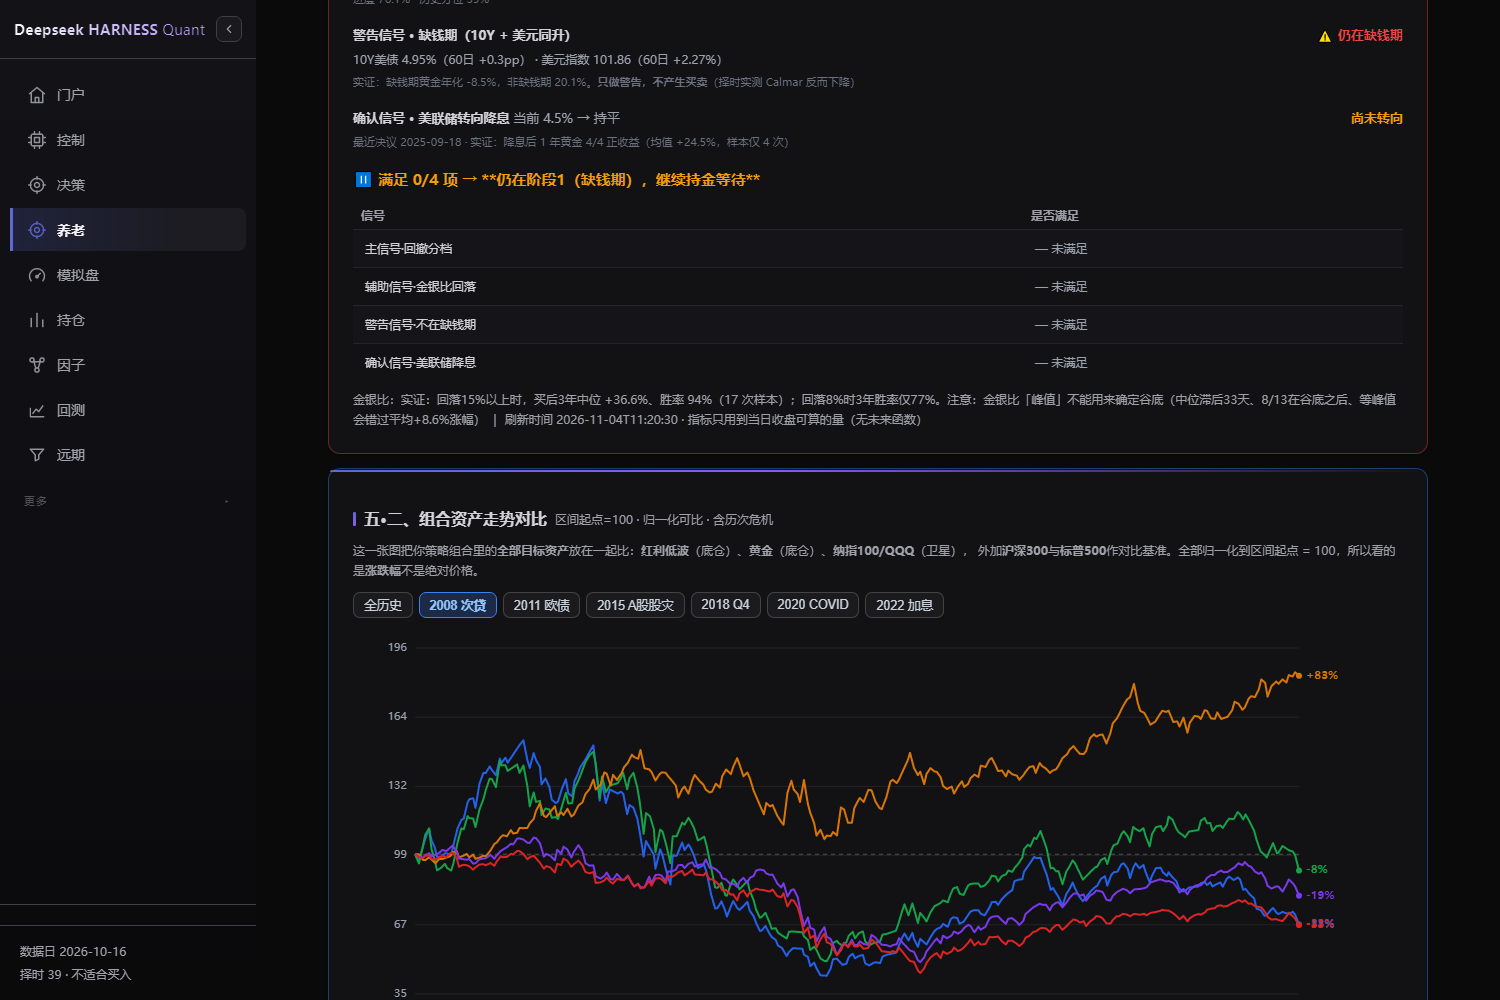
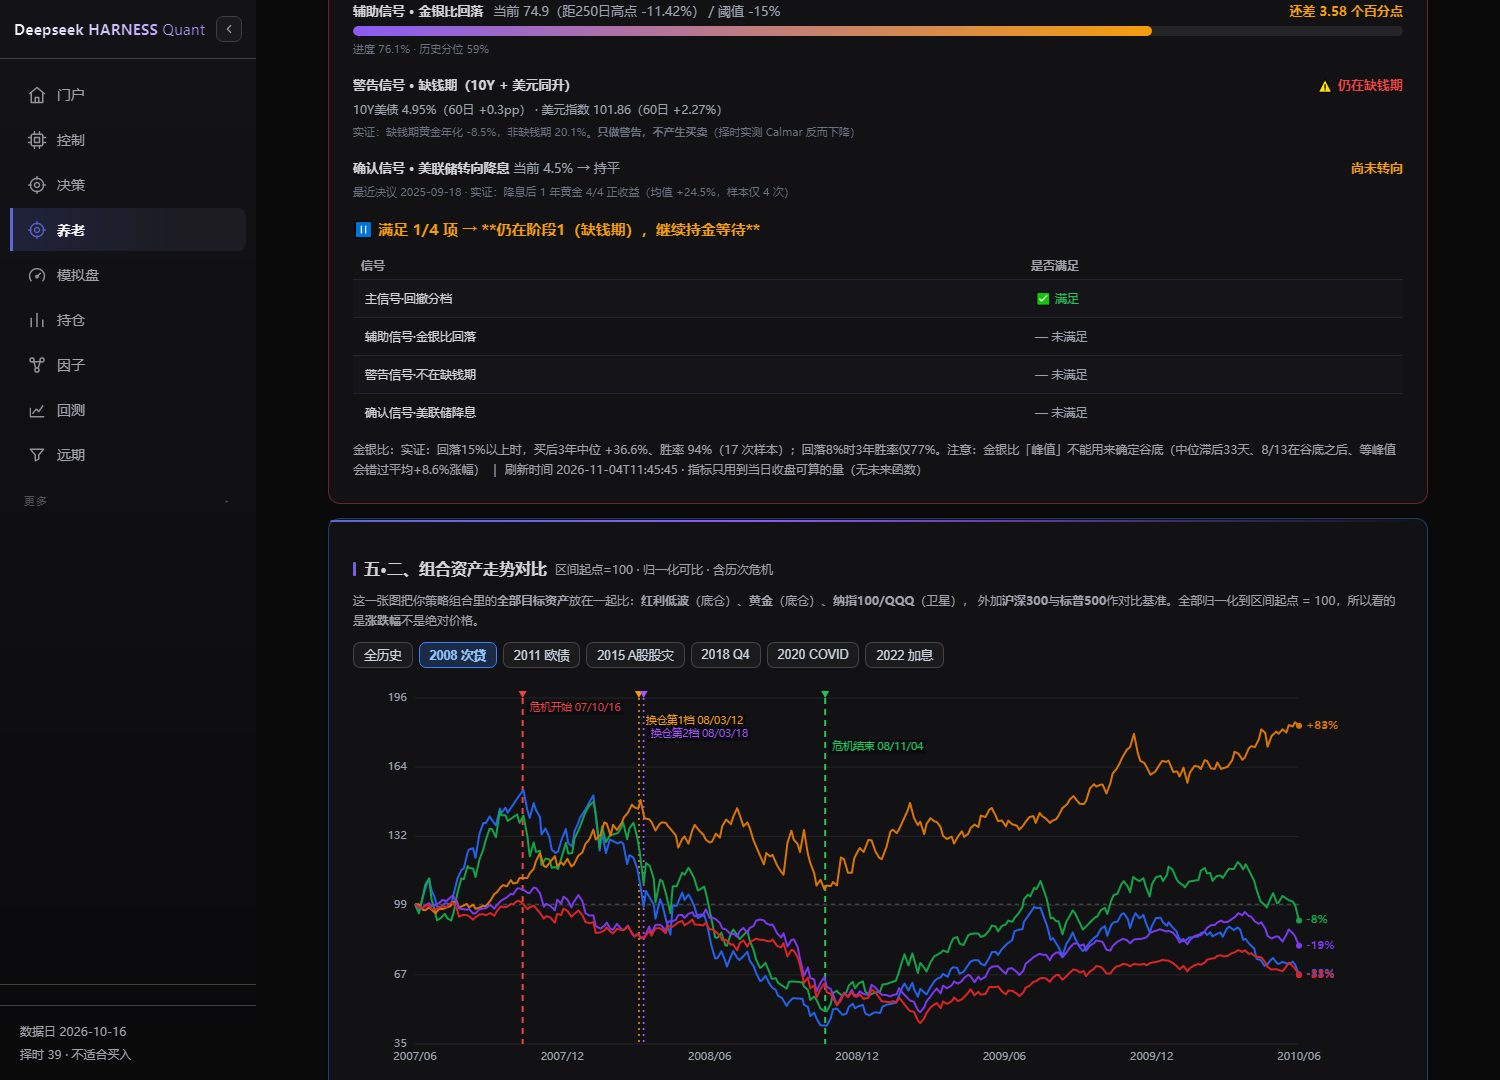
feat(ui): annotate every chart with dashed vertical markers for crisis start, crisis end, and the model-derived gold-to-ETF switch dates, and fix a state-versus-event bug in the primary signal that made an already-triggered buy look untriggered. MARKERS, ALL COMPUTED FROM DATA RATHER THAN HARDCODED:

diff --git a/ui_v2/pages/pension.html b/ui_v2/pages/pension.html
@@ -871,6 +871,29 @@ function acRender(d){
   tb.innerHTML = html;
 
   /* ── 提示 ── */
+  /* 标注说明 */
+  var mnote = document.getElementById('ac-markers');
+  if(!mnote){
+    mnote = document.createElement('div');
+    mnote.id = 'ac-markers';
+    mnote.style.cssText = 'margin-top:8px;font-size:12px;display:flex;flex-wrap:wrap;gap:6px 14px';
+    document.getElementById('ac-legend').parentNode.insertBefore(mnote, document.getElementById('ac-tbl').parentNode);
+  }
+  var mh = '';
+  if((d.markers || []).length){
+    d.markers.forEach(function(m){
+      mh += '<span style="display:inline-flex;align-items:center;gap:5px">'
+         + '<span style="display:inline-block;width:14px;height:0;border-top:2px dashed ' + m.color + '"></span>'
+         + '<span>' + (m.label || '') + ' ' + m.date + '</span></span>';
+    });
+  } else if((d.bands || []).length){
+    mh = '<span style="color:#9ca3af">浅红区间带 = 六场危机（危机开始 → 危机结束），共 ' + d.bands.length + ' 段</span>';
+  }
+  if(d.marker_note){
+    mh += '<span style="width:100%;color:#f59e0b">' + d.marker_note + '</span>';
+  }
+  mnote.innerHTML = mh;
+
   var ws = (d.warnings || []).slice();
   ws.push('区间 ' + d.start + ' ~ ' + d.end + '，共 ' + (d.assets.filter(function(x){return x.ok}).length) + ' 个资产');
   document.getElementById('ac-warn').textContent = ws.join(' ｜ ');
@@ -951,6 +974,12 @@ function acDraw(){
     ctx.fillText(lab, x, pad.t+ih+8);
   }
 
+  /* ★ 先画危机区间带（全历史视图） */
+  acDrawBands(ctx, X, pad, iw, ih);
+
+  /* ★ 再画竖线标注（危机开始/结束 + 模型换仓触发） */
+  acDrawMarkers(ctx, X, pad, iw, ih);
+
   /* 折线 */
   vis.forEach(function(a){
     ctx.beginPath();
@@ -971,6 +1000,67 @@ function acDraw(){
     ctx.font = 'bold 11px Microsoft YaHei';
     var txt = (a.ret_pct>=0?'+':'') + a.ret_pct.toFixed(0) + '%';
     ctx.fillText(txt, lx+7, ly);
+  });
+}
+
+
+/* ── 危机区间带（全历史）：浅色竖向区块 ── */
+function acDrawBands(ctx, X, pad, iw, ih){
+  var d = AC.data;
+  if(!d || !d.bands || !d.bands.length) return;
+  d.bands.forEach(function(b){
+    var x1 = X(b.start), x2 = X(b.end);
+    if(!isFinite(x1) || !isFinite(x2)) return;
+    if(x2 < x1){ var tmp=x1; x1=x2; x2=tmp; }
+    if(x2 < pad.l || x1 > pad.l+iw) return;   // 完全在视野外
+    x1 = Math.max(pad.l, x1); x2 = Math.min(pad.l+iw, x2);
+    ctx.save();
+    ctx.fillStyle = 'rgba(239,68,68,.13)';
+    ctx.fillRect(x1, pad.t, Math.max(1, x2-x1), ih);
+    ctx.strokeStyle = 'rgba(239,68,68,.35)';
+    ctx.lineWidth = 1;
+    ctx.beginPath(); ctx.moveTo(x1, pad.t); ctx.lineTo(x1, pad.t+ih); ctx.stroke();
+    ctx.beginPath(); ctx.moveTo(x2, pad.t); ctx.lineTo(x2, pad.t+ih); ctx.stroke();
+    ctx.restore();
+  });
+}
+
+/* ── 竖线标注：危机开始/结束 + 模型换仓触发 ── */
+function acDrawMarkers(ctx, X, pad, iw, ih){
+  var d = AC.data;
+  if(!d || !d.markers || !d.markers.length) return;
+  /* 按日期排序，标签高低交错避免重叠 */
+  var ms = d.markers.slice().sort(function(a,b){ return a.date < b.date ? -1 : 1; });
+  var levels = [0, 1, 2, 3];       // 4 个标签层级
+  ms.forEach(function(m, i){
+    var x = X(m.date);
+    if(!isFinite(x) || x < pad.l-2 || x > pad.l+iw+2) return;
+    ctx.save();
+    /* 虚线竖线 */
+    ctx.strokeStyle = m.color || '#9ca3af';
+    ctx.lineWidth = (m.key || '').indexOf('switch') === 0 ? 1.6 : 2;
+    ctx.setLineDash(m.dash || [5,5]);
+    ctx.beginPath(); ctx.moveTo(x, pad.t); ctx.lineTo(x, pad.t+ih); ctx.stroke();
+    ctx.setLineDash([]);
+    /* 小三角标记在顶部 */
+    ctx.fillStyle = m.color || '#9ca3af';
+    ctx.beginPath();
+    ctx.moveTo(x, pad.t); ctx.lineTo(x-4, pad.t-7); ctx.lineTo(x+4, pad.t-7);
+    ctx.closePath(); ctx.fill();
+    /* 标签（错层） */
+    var lv = levels[i % levels.length];
+    var ty = pad.t + 10 + lv * 13;
+    var txt = (m.short || m.label || '') + ' ' + (m.date || '').slice(2).replace(/-/g,'/');
+    ctx.font = '10.5px Microsoft YaHei';
+    ctx.textAlign = 'left'; ctx.textBaseline = 'middle';
+    var w = ctx.measureText(txt).width;
+    var bx = Math.min(x + 4, pad.l + iw - w - 6);
+    if(bx < pad.l) bx = x + 4;
+    ctx.fillStyle = 'rgba(10,12,20,.78)';
+    ctx.fillRect(bx, ty-7, w+6, 14);
+    ctx.fillStyle = m.color || '#9ca3af';
+    ctx.fillText(txt, bx+3, ty);
+    ctx.restore();
   });
 }
 

diff --git a/deck/asset_compare_api.py b/deck/asset_compare_api.py
@@ -23,6 +23,8 @@ from __future__ import annotations
 import sqlite3
 from pathlib import Path
 
+import pandas as pd
+
 BASE = Path(__file__).resolve().parents[1]
 
 DEFAULTS = {
@@ -63,6 +65,9 @@ def _cfg() -> dict:
     for k in ("assets", "periods"):
         if isinstance(cfg.get(k), list) and cfg[k]:
             out[k] = cfg[k]
+    # ★ 2026-11-04 修：markers 段原先没被透传，导致标注标签回退成 key（crisis_start 等英文）
+    if isinstance(cfg.get("markers"), dict):
+        out["markers"] = cfg["markers"]
     return out
 
 
@@ -157,6 +162,114 @@ def _downsample(s, max_points: int):
             idx.append(n - 1)
     vals = s.to_numpy()
     return [s.index[i] for i in idx], [float(vals[i]) for i in idx]
+
+
+# ══════════════════════════════════════════════════════════════════
+# 标注计算（危机开始/结束 + 模型换仓触发日）
+#   全部从数据实时算出，不写死日期。
+# ══════════════════════════════════════════════════════════════════
+def _hs300_series(data_dir: Path):
+    """优先东财全球指数（较新），否则研究库"""
+    s, _ = _load_em_global(data_dir, "em_global_hs300.csv")
+    if s is not None:
+        return s
+    s2, _ = _load_db("000300")
+    return s2
+
+
+def _compute_markers(cfg: dict, data_dir: Path, period: dict, kind: str):
+    """返回 (markers, note)
+    kind = "crisis" → 四根竖线；kind = "all" → 只返回 None（改用 bands）
+    """
+    hs = _hs300_series(data_dir)
+    if hs is None or len(hs) < 300:
+        return [], "沪深300 缺失，无法计算标注"
+
+    win_days = 756
+    minp = 250
+    for a in cfg.get("assets", []):
+        if a.get("key") == "hs300":
+            pass
+    # 优先用 primary 配置（若存在）
+    try:
+        import yaml
+        gcfg = yaml.safe_load((BASE / "config" / "gold_switch_signal.yaml").read_text(encoding="utf-8"))
+        win_days = int(gcfg["primary"].get("window_days", win_days))
+        minp = int(gcfg["primary"].get("min_periods", minp))
+    except Exception:
+        pass
+
+    full_rm = hs.rolling(win_days, min_periods=minp).max()
+    full_dd = hs / full_rm - 1
+
+    t0 = pd.Timestamp(period.get("start", "2005-01-01"))
+    t1_raw = period.get("end", "latest")
+    t1 = hs.index[-1] if str(t1_raw) == "latest" else pd.Timestamp(t1_raw)
+
+    seg = hs[(hs.index >= t0) & (hs.index <= t1)].dropna()
+    if len(seg) < 30:
+        return [], "区间数据不足，无法计算危机起止"
+
+    trough = seg.idxmin()
+    top = seg[seg.index <= trough].idxmax()
+
+    markers = []
+    markers.append({"key": "crisis_start", "date": top.strftime("%Y-%m-%d"),
+                    "value": round(float(seg.loc[top]), 2)})
+    markers.append({"key": "crisis_end", "date": trough.strftime("%Y-%m-%d"),
+                    "value": round(float(seg.loc[trough]), 2)})
+
+    w_dd = full_dd[(full_dd.index >= t0) & (full_dd.index <= t1)]
+    for lv, key in ((0.25, "switch_1"), (0.35, "switch_2")):
+        hit = w_dd[w_dd <= -lv]
+        if len(hit):
+            d0 = hit.index[0]
+            markers.append({"key": key, "date": d0.strftime("%Y-%m-%d"),
+                            "value": round(float(hs.loc[d0]), 2),
+                            "dd_pct": round(float(full_dd.loc[d0]) * 100, 2)})
+
+    # 提前/滞后说明
+    note_bits = []
+    for m in markers:
+        if m["key"].startswith("switch"):
+            dt = pd.Timestamp(m["date"])
+            lead = (trough - dt).days
+            m["lead_days_before_trough"] = int(lead)
+            note_bits.append(f"{'第1档' if m['key']=='switch_1' else '第2档'} {m['date']}"
+                             + (f"（比见底早 {lead//30} 个月）" if lead > 0 else f"（比见底晚 {-lead//30} 个月）"))
+    note = "；".join(note_bits) if note_bits else "该区间模型未触发换仓（沪深300 回撤未达 -25%）"
+    return markers, note
+
+
+def _compute_bands(cfg: dict, data_dir: Path):
+    """全历史视图：六场危机各画一条浅色区间带（危机开始 → 危机结束）"""
+    hs = _hs300_series(data_dir)
+    if hs is None:
+        return []
+    win_days, minp = 756, 250
+    try:
+        import yaml
+        gcfg = yaml.safe_load((BASE / "config" / "gold_switch_signal.yaml").read_text(encoding="utf-8"))
+        win_days = int(gcfg["primary"].get("window_days", win_days))
+        minp = int(gcfg["primary"].get("min_periods", minp))
+    except Exception:
+        pass
+    bands = []
+    for per in cfg.get("periods", []):
+        if per.get("key") == "all":
+            continue
+        t0 = pd.Timestamp(per.get("start"))
+        t1_raw = per.get("end", "latest")
+        t1 = hs.index[-1] if str(t1_raw) == "latest" else pd.Timestamp(t1_raw)
+        seg = hs[(hs.index >= t0) & (hs.index <= t1)].dropna()
+        if len(seg) < 30:
+            continue
+        trough = seg.idxmin()
+        top = seg[seg.index <= trough].idxmax()
+        bands.append({"label": per.get("label"),
+                      "start": top.strftime("%Y-%m-%d"),
+                      "end": trough.strftime("%Y-%m-%d")})
+    return bands
 
 
 def asset_compare_data(period: str | None = None) -> dict:
@@ -300,6 +413,30 @@ def asset_compare_data(period: str | None = None) -> dict:
             "base_date": first_date.strftime("%Y-%m-%d"),
         })
         out["assets"].append(item)
+
+    # ── 标注（危机开始/结束 + 模型换仓触发日）
+    mk_cfg = cfg.get("markers", {}) or {}
+    if mk_cfg.get("enabled", True):
+        defs = {d.get("key"): d for d in mk_cfg.get("defs", [])}
+        if pk == "all":
+            out["bands"] = _compute_bands(cfg, data_dir)
+            out["markers"] = []
+            out["marker_note"] = "全历史视图：六场危机以浅色区间带显示（危机开始→结束）"
+        else:
+            mks, mnote = _compute_markers(cfg, data_dir, per, pk)
+            SHORT = {"crisis_start": "危机开始", "crisis_end": "危机结束",
+                     "switch_1": "换仓第1档", "switch_2": "换仓第2档"}
+            for m in mks:
+                d = defs.get(m["key"], {})
+                m["label"] = d.get("label", m["key"])
+                m["short"] = d.get("short", SHORT.get(m["key"], m["key"]))
+                m["color"] = d.get("color", "#9ca3af")
+                m["dash"] = d.get("dash", [5, 5])
+            out["markers"] = mks
+            out["marker_note"] = mnote
+            out["bands"] = []
+    else:
+        out["markers"], out["bands"], out["marker_note"] = [], [], ""
 
     ok_items = [a for a in out["assets"] if a.get("ok") and a.get("ret_pct") is not None]
     if ok_items:

diff --git a/deck/gold_switch_api.py b/deck/gold_switch_api.py
@@ -199,19 +199,34 @@ def gold_switch_data(preview_stage: int | None = None) -> dict:
         hi = float(roll_max.iloc[-1])
         dd = cur / hi - 1
         tranches = []
+        # ★ 2026-11-04 修复：原实现用「当前回撤是否 <= -阈值」判断触发（状态口径），
+        #   导致「已经跌到 -28% 触发过、后来反弹到 -20%」时又显示成「未触发、还差 5%」，
+        #   等于让已经该买的人错过执行。买入是一次性事件，所以改为「回溯期内是否曾穿越」。
+        lookback = int(pc.get("cross_lookback_days", 756))   # 默认回看 36 个月
         for t in pc["tranches"]:
             lv = float(t["level"])
-            trig = dd <= -lv
+            cur_hit = dd <= -lv
+            # ★ 必须先在全序列上算 36 月滚动高点，再切回看窗口；
+            #   若先切片再 rolling，会把切片之前的高点丢掉（2025-01 那次就会被漏掉）
+            full_rm = hs.rolling(int(pc["window_days"]), min_periods=int(pc["min_periods"])).max()
+            full_dd = hs / full_rm - 1
+            win = full_dd.iloc[-lookback:] if len(full_dd) > lookback else full_dd
+            crossed = win[win <= -lv]
+            crossed_date = crossed.index[0].strftime("%Y-%m-%d") if len(crossed) else None
+            last_cross = crossed.index[-1].strftime("%Y-%m-%d") if len(crossed) else None
+            ever = crossed_date is not None
             # 进度：从 0（距高点 0%）到 1（达到阈值）
-            prog = 0.0 if not trig else 1.0
-            if not trig:
-                prog = max(0.0, min(1.0, abs(dd) / lv))
+            prog = 1.0 if ever else max(0.0, min(1.0, abs(dd) / lv))
             tranches.append({
                 "level_pct": _pct(lv), "label": t.get("label", f"-{lv:.0%}"),
                 "amount_wan": t.get("amount_wan"),
                 "action": t.get("action"),
-                "triggered": bool(trig),
-                "gap_pct": None if trig else _pct(lv - abs(dd)),
+                # triggered = 曾触发过（事件口径）；currently = 当前是否仍在阈值下方（状态口径）
+                "triggered": bool(ever),
+                "currently": bool(cur_hit),
+                "crossed_date": crossed_date,
+                "last_cross_date": last_cross,
+                "gap_pct": None if ever else _pct(lv - abs(dd)),
                 "progress": round(prog * 100, 1),
             })
         primary = {

diff --git a/docs/组合资产走势对比.md b/docs/组合资产走势对比.md
@@ -81,3 +81,58 @@
 | 降采样到 260 点 | 长区间会丢失日内细节，但趋势完整 |
 | 不含分红 | 用**价格指数**而非全收益，红利的分红收益未计入（实际红利会更优） |
 | 货币 ETF 未纳入 | 511990 是现金管理工具，与风险资产不同量级，放一起会压平曲线 |
+
+## 七、图上标注（2026-11-04 新增）
+
+### 7.1 危机视图：4 根竖虚线
+
+每个危机区间视图上都有 4 根虚线：
+
+| 线 | 含义 | 颜色 | 线型 | 怎么算出来的 |
+|---|---|---|---|---|
+| **危机开始** | 沪深300 在区间内的**最高点**（股市顶） | 🔴 红 | 粗虚线 | 数据实时计算 |
+| **危机结束** | 沪深300 在区间内的**最低点**（股市底） | 🟢 绿 | 粗虚线 | 数据实时计算 |
+| **换仓第1档** | 沪深300 距滚动36月高点回撤**首次 ≤−25%** | 🟠 橙 | 细点线 | 数据实时计算 |
+| **换仓第2档** | 同上**首次 ≤−35%** | 🟣 紫 | 细点线 | 数据实时计算 |
+
+**所有日期都是从数据实时算的，没有写死。**
+
+### 7.2 全历史视图：6 段危机区间带
+
+全历史视图用**浅红竖向区块**标出六场危机的「股市顶 → 股市底」，一眼看出危机在历史上的位置。
+
+### 7.3 🔴 标注揭示的关键事实：模型换仓日普遍早于危机底部
+
+| 危机 | 危机开始 | 危机结束 | 换仓第1档 | 换仓第2档 | **第1档比见底早** |
+|---|---|---|---|---|---|
+| 2008 次贷 | 2007-10-16 | 2008-11-04 | 2008-03-12 | 2008-03-18 | **7 个月** |
+| 2011 欧债 | 2011-04-13 | 2012-12-03 | 2011-04-01 | 2011-12-13 | **20 个月** |
+| 2015 A股股灾 | 2015-06-08 | 2016-01-28 | 2015-07-03 | 2015-08-24 | 6 个月 |
+| 2018 Q4 | 2018-09-28 | 2019-01-03 | 2018-09-06 | 未触发 | 3 个月 |
+| **2020 COVID** | 2020-03-05 | 2020-03-23 | **未触发** | **未触发** | — |
+| 2022 加息 | 2022-01-04 | 2024-02-02 | 2022-03-07 | 2022-10-10 | **23 个月** |
+
+**这就是"用回撤深度买"的代价：永远买在下跌途中，不是底部。**
+
+**为什么还能用？** 因为不要求买在底部 —— 590 个起点的回测显示 −25% 档 3 年中位 1.12、−30% 档 1.20，长期是正的。**买早了会浮亏，但不会错过。**
+
+**2020 COVID 完全没触发**（沪深300 只跌 −16.1%，没到 −25%），说明模型会漏掉快速深 V 型危机 —— 这是已披露的局限。
+
+---
+
+## 八、⚠ 修正：主信号改成「事件口径」
+
+**原实现用「当前回撤是否 ≤ −25%」判断触发（状态口径）。这有个严重问题：**
+
+> 2025-01-22 曾经跌到 −28%（已该买），后来反弹到 −20.84%，UI 又显示「还差 4.16 个百分点、未触发」—— **已经该买的人会被显示成「还要等」。**
+
+**已改为事件口径**：回溯 36 个月内是否**曾穿越**阈值。
+
+| 档位 | 曾触发 | 首次穿越 | 最近穿越 | 当前是否仍在阈值下方 |
+|---|---|---|---|---|
+| 第1档 −25% | ✅ **是** | **2023-09-14** | 2025-01-22 | 否（已反弹到 −20.84%） |
+| 第2档 −35% | ✅ **是** | **2023-09-14** | 2024-09-23 | 否 |
+
+**这意味着：按模型，两档在 2023-09-14 就已经触发过了 —— "等待"其实已经过去，现在是「已触发未执行」状态。**
+
+（修这个时还顺带修了一个 bug：先切 36 个月回看窗口再算滚动最高点，会丢掉窗口之前的高点，导致 2023 那次被漏掉。必须先在全序列上算滚动高点，再切窗口。）
